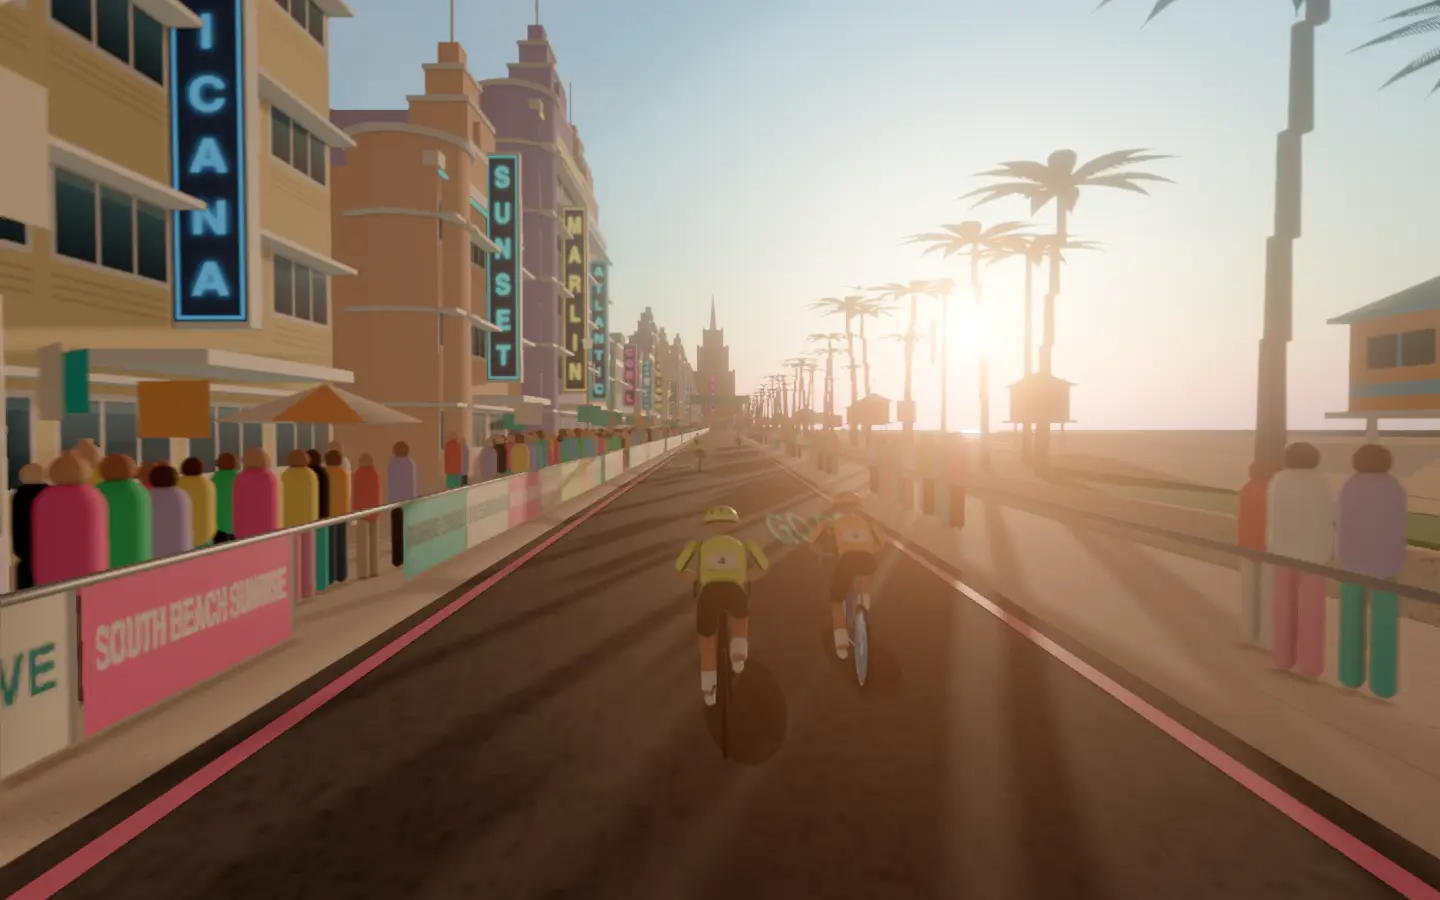
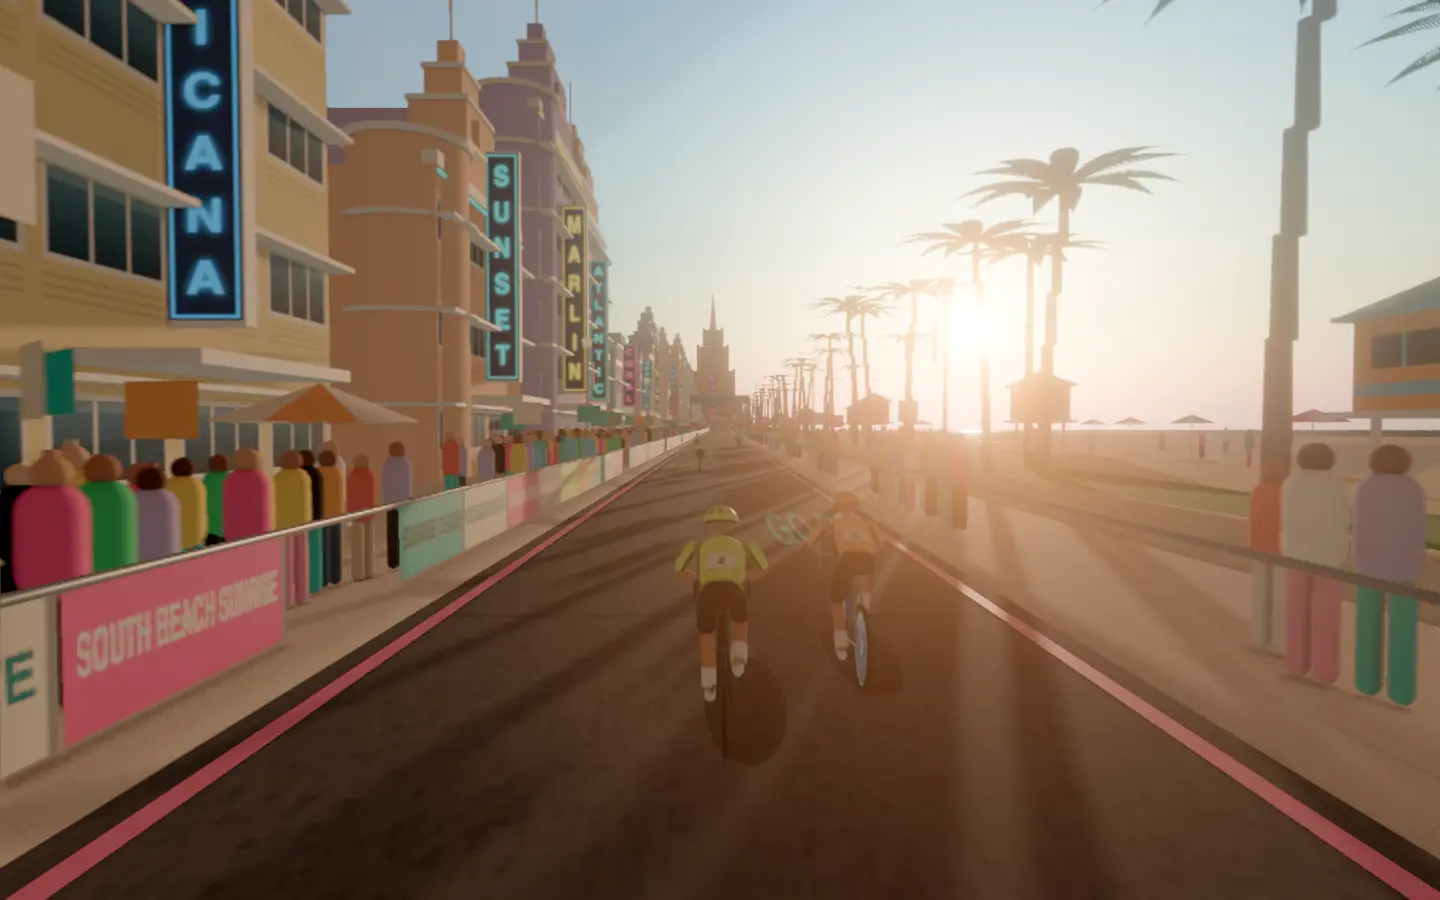
Bring South Beach's morning life: joggers, beachgoers and umbrellas
Joggers run the lawn path towards the rider, and beachgoers stroll the sand
and wade at the surf line, all on the kit's Figures. Striped beach umbrellas
stand over towels. Render quality 76% -> 77% (crowd and life 7 -> 8).

diff --git a/frontend/projects/wattzup/src/app/core/world-southbeach.ts b/frontend/projects/wattzup/src/app/core/world-southbeach.ts
@@ -30,6 +30,7 @@ import {
   canvasTexture,
   clothBannerTexture,
   Crowd,
+  Figures,
   loopMetres,
   paintTexture,
   Ribbons,
@@ -54,6 +55,8 @@ const PAVEMENT = 7;
 const WALL = 7.4;
 const SAND = 15;
 const SEA = 34;
+/** Joggers on the lawn path between the palms and the sand. */
+const JOGGERS = 14;
 /** Lifeguard towers stand on the sand every TOWER_EVERY metres. */
 const TOWER_EVERY = 40;
 /** The deco tower stands at the end of the drive, a little left, hazed by hand. */
@@ -140,6 +143,10 @@ export class SouthBeachStreet implements SceneStreet {
   private readonly tower = new Group();
   private readonly sea = new Group();
   private readonly pelicans: Group[] = [];
+  /** Joggers on the lawn path and beachgoers on the sand, built on the kit's figures. */
+  private joggers: Figures | null = null;
+  private beachgoers: Figures | null = null;
+  private readonly bathers: { x: number; offset: number; heading: number; scale: number }[] = [];
   private time = 0;
   private readonly unit = new BoxGeometry(1, 1, 1);
   private readonly flagMaterials = PENNANTS.map(
@@ -181,6 +188,7 @@ export class SouthBeachStreet implements SceneStreet {
     this.addSea();
     this.addTower();
     this.addPelicans();
+    this.addBeachLife();
   }
 
   /** The street's clock, in seconds; held at 0 for reduced motion. */
@@ -204,6 +212,26 @@ export class SouthBeachStreet implements SceneStreet {
     const far = heightAt(1e6);
     this.tower.position.set(TOWER_X, far - 2, -TOWER_AHEAD);
     this.sea.position.set(0, far, 0);
+    // Joggers run the lawn path towards the rider, a stride bobbing every half second.
+    const joggers = this.joggers;
+    if (joggers) {
+      for (let i = 0; i < JOGGERS; i++) {
+        const offset = i * (LOOP / JOGGERS) - this.time * (2.6 + (i % 3) * 0.4);
+        const metres = along(offset, LOOP);
+        const bob = Math.abs(Math.sin(this.time * 6 + i)) * 0.08;
+        const x = 11 + (i % 2) * 1.1;
+        joggers.set(i, x, heightAt(Math.max(metres, 0)) + 0.3, -metres, 0, 1, bob);
+      }
+      joggers.commit();
+    }
+    const beachgoers = this.beachgoers;
+    if (beachgoers) {
+      this.bathers.forEach((b, i) => {
+        const metres = along(b.offset, LOOP);
+        beachgoers.set(i, b.x, heightAt(Math.max(metres, 0)) + 0.3, -metres, b.heading, b.scale);
+      });
+      beachgoers.commit();
+    }
     // Pelicans glide in a line along the shore, overtaking the rider slowly.
     this.pelicans.forEach((bird, i) => {
       const glide = this.time * 1.5 + i * 7;
@@ -738,6 +766,58 @@ export class SouthBeachStreet implements SceneStreet {
     this.disposables.push(sign.geometry);
     t.add(sign);
     this.group.add(t);
+  }
+
+  /**
+   * South Beach's morning life: joggers on the lawn path, beachgoers strolling the sand and
+   * wading at the surf line, and striped beach umbrellas over towels.
+   */
+  private addBeachLife(): void {
+    const wardrobe = {
+      tops: ['#ff4fa8', '#2fd3cf', '#ffe14a', '#ffffff', '#ff7a3d', '#7ad0ff', '#3fe08a'],
+      bottoms: ['#1e2530', '#ff4fa8', '#2f3e5c', '#f2efe6', '#2fd3cf', '#111111'],
+      skins: SKINS,
+    };
+    this.joggers = new Figures(this.group, this.disposables, JOGGERS, wardrobe, 71);
+    const random = seeded(79);
+    for (let offset = 0; offset < LOOP; offset += 5) {
+      if (random() < 0.35) continue;
+      // Most stroll the sand; one in three wades at the surf line.
+      const wading = random() < 0.33;
+      this.bathers.push({
+        x: wading ? SEA - 1.5 + random() * 2.5 : SAND + 5 + random() * (SEA - SAND - 9),
+        offset: offset + random() * 4,
+        heading: random() * Math.PI * 2,
+        scale: 0.85 + random() * 0.2,
+      });
+    }
+    this.beachgoers = new Figures(this.group, this.disposables, this.bathers.length, wardrobe, 83);
+    const pole = new CylinderGeometry(0.035, 0.035, 2.2, 6);
+    pole.translate(0, 1.1, 0);
+    const canopy = new ConeGeometry(1.2, 0.5, 10, 1, true);
+    canopy.translate(0, 2.2, 0);
+    const towel = new PlaneGeometry(0.9, 1.9);
+    towel.rotateX(-Math.PI / 2);
+    towel.translate(0.9, 0.04, 0);
+    this.disposables.push(pole, canopy, towel);
+    const white = this.material({ color: 0xf6f3ea, roughness: 0.7 });
+    const shades = ['#ff4fa8', '#2fd3cf', '#ffb23f', '#7ad0ff'].map((c) =>
+      this.material({ map: this.track(umbrellaTexture(c)), side: DoubleSide, roughness: 0.8 }),
+    );
+    const towels = ['#ffe14a', '#ff7ab8', '#2fd3cf', '#ffffff'].map((c) =>
+      this.material({ color: c, roughness: 0.9 }),
+    );
+    for (let offset = 6, k = 0; offset < LOOP; offset += 14, k++) {
+      const spot = new Group();
+      const shade = new Mesh(canopy, shades[k % shades.length]!);
+      shade.castShadow = true;
+      spot.add(new Mesh(pole, white), shade, new Mesh(towel, towels[(k * 3) % towels.length]!));
+      spot.position.y = 0.3;
+      const holder = new Group();
+      holder.add(spot);
+      this.group.add(holder);
+      this.props.push({ mesh: holder, offset, every: LOOP, x: SAND + 7 + (k % 4) * 4 });
+    }
   }
 
   /** Brown pelicans gliding in a line along the shore. */

diff --git a/docs/detailed-designs/world-ride/draw-class-scene/README.md b/docs/detailed-designs/world-ride/draw-class-scene/README.md
@@ -100,7 +100,7 @@ None.
   - pale pavements, race barriers hung with the race's banners, a coral-stone wall, the palm lawn, the sand, the surf line and the Atlantic out to the horizon on the right;
   - pastel art deco hotels on the left, two to five storeys, with eyebrow ledges over ribbon windows, stepped parapets, neon bands and a neon fin carrying each hotel's name; curved corner towers wrapped by their eyebrows, ziggurat finials with masts and frontages set back by up to 1.5 m, with a side street opening between some of them;
   - café terraces under striped umbrellas, royal palms, painted lifeguard towers on the sand, lamp posts flying pennants, cloth banners across the drive, the race lane's pink edge lines, and the fans' writing on the tarmac every 25 m beside the riders' line, so some is always close enough to read;
-  - the shared crowd behind the barriers, one deep and in clusters on the beach side so the sand, the lifeguard towers and the sea show between them, and brown pelicans gliding along the shore on the street's clock;
+  - the shared crowd behind the barriers, one deep and in clusters on the beach side so the sand, the lifeguard towers and the sea show between them, joggers on the lawn path running towards the rider, beachgoers on the sand and at the surf line under striped beach umbrellas (the kit's `Figures`), and brown pelicans gliding along the shore on the street's clock;
   - the stepped deco tower at the end of the drive, its setbacks ringed in neon, hazed by hand.
 
   `lay`, `place` and `setTime` recycle it along a 400 m loop. Every texture is drawn on a canvas, so the scene loads no assets. The shared kit (`core/world-kit.ts`) also holds the crowd behind the barriers, the painted road writing and the race's cloth and barrier banners, which Old Town, Caribana and South Beach draw from it.

diff --git a/docs/class-worlds.md b/docs/class-worlds.md
@@ -10,7 +10,7 @@ Every class in `frontend/public/classes.json`, with its World Ride scene. Render
 | 4 | 30 Min Tempo Paceline | Prairie Paceline | 35% | Open farmland at golden hour. Take long turns on the front, into the wind past the turbines. |
 | 5 | 60 Min Dolomites Endurance | Dolomites | 35% | A valley road under limestone peaks. Soft rollers, one steady level and long views. |
 | 6 | 60 Min Coastal Endurance + Surges | Cliffside Coast | 35% | A clifftop road at sunset with the sea on your right. Each tempo surge climbs a headland. |
-| 7 | Calorie Burning Workout | South Beach Sunrise | 76% | Pastel art deco hotels with neon fins face palms, lifeguard towers and the Atlantic along Miami Beach's Ocean Drive at sunrise. The two-minute opener and the six short efforts each chase the rising sun up a rise toward the deco tower at the end of the drive. |
+| 7 | Calorie Burning Workout | South Beach Sunrise | 77% | Pastel art deco hotels with neon fins face palms, lifeguard towers and the Atlantic along Miami Beach's Ocean Drive at sunrise. The two-minute opener and the six short efforts each chase the rising sun up a rise toward the deco tower at the end of the drive. |
 | 8 | Intense Interval Blast | Caribana Parade | 55% | Toronto's Lake Shore Boulevard at Caribbean Carnival; steel pans and feathered masqueraders, each interval a surge between bands. |
 | 9 | Quick But Brutal HIIT | Trinidad J'Ouvert (concept) |  | Port of Spain before dawn at Carnival, paint and mud flying; each sprint breaks through a soca crowd. |
 | 10 | Sprintavals | Knicks Championship Parade (concept) |  | Ticker tape over Manhattan's Canyon of Heroes for a Knicks NBA title; sprint between floats as orange-and-blue crowds roar. |
